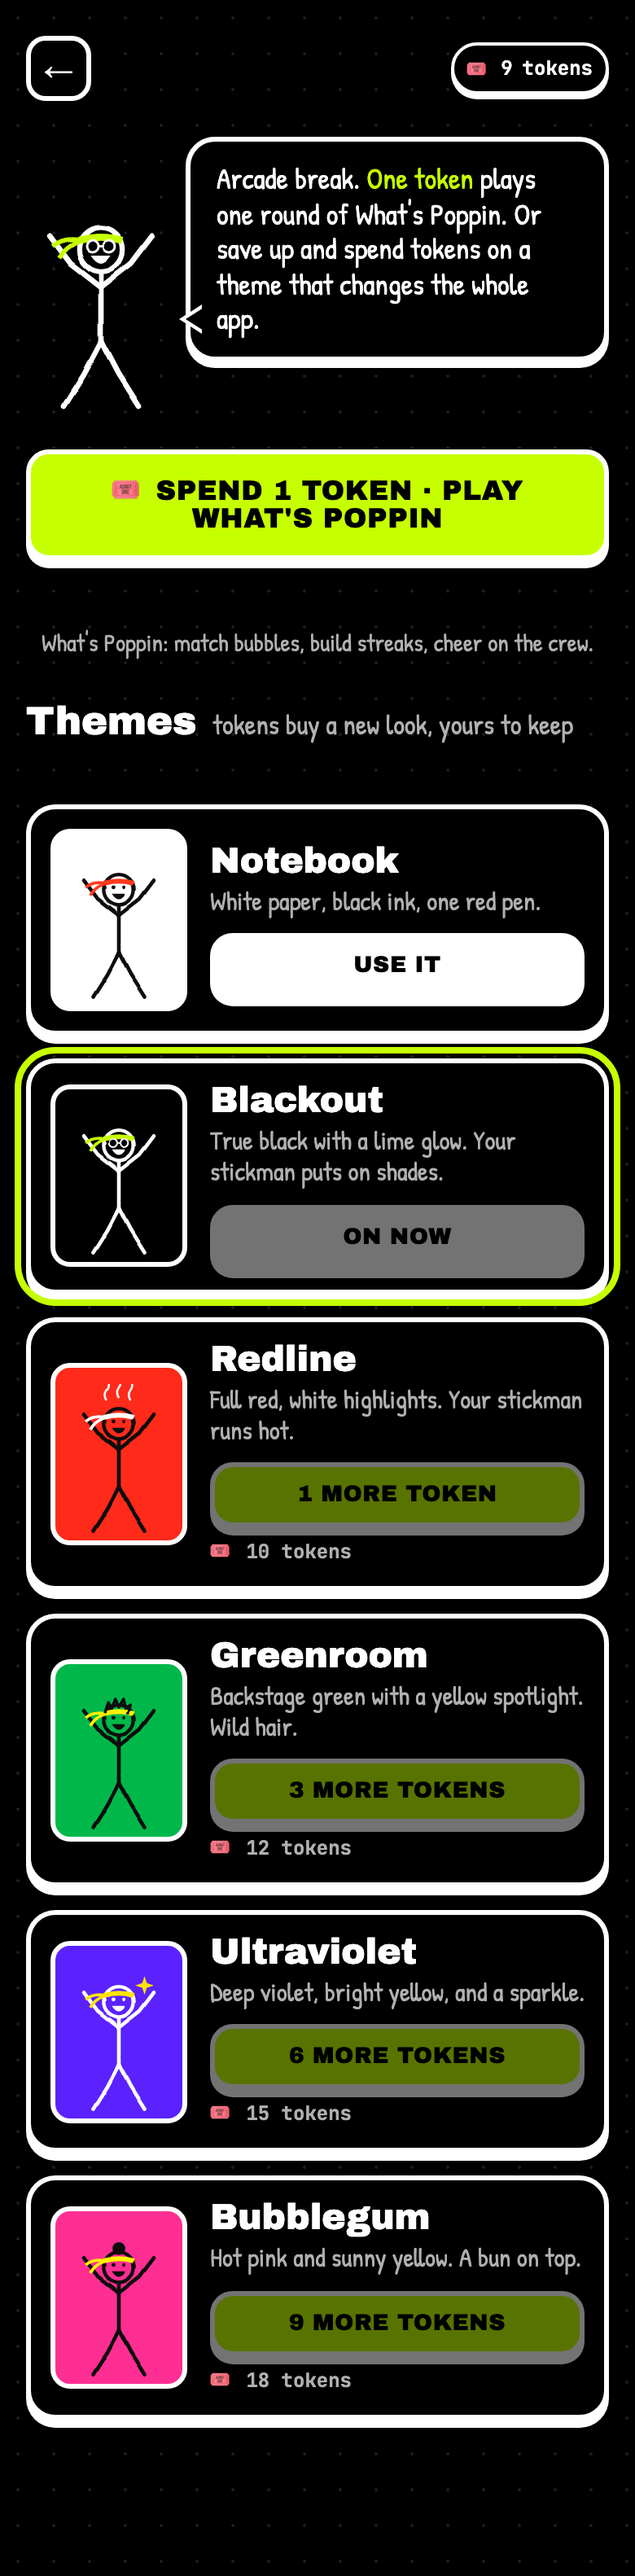
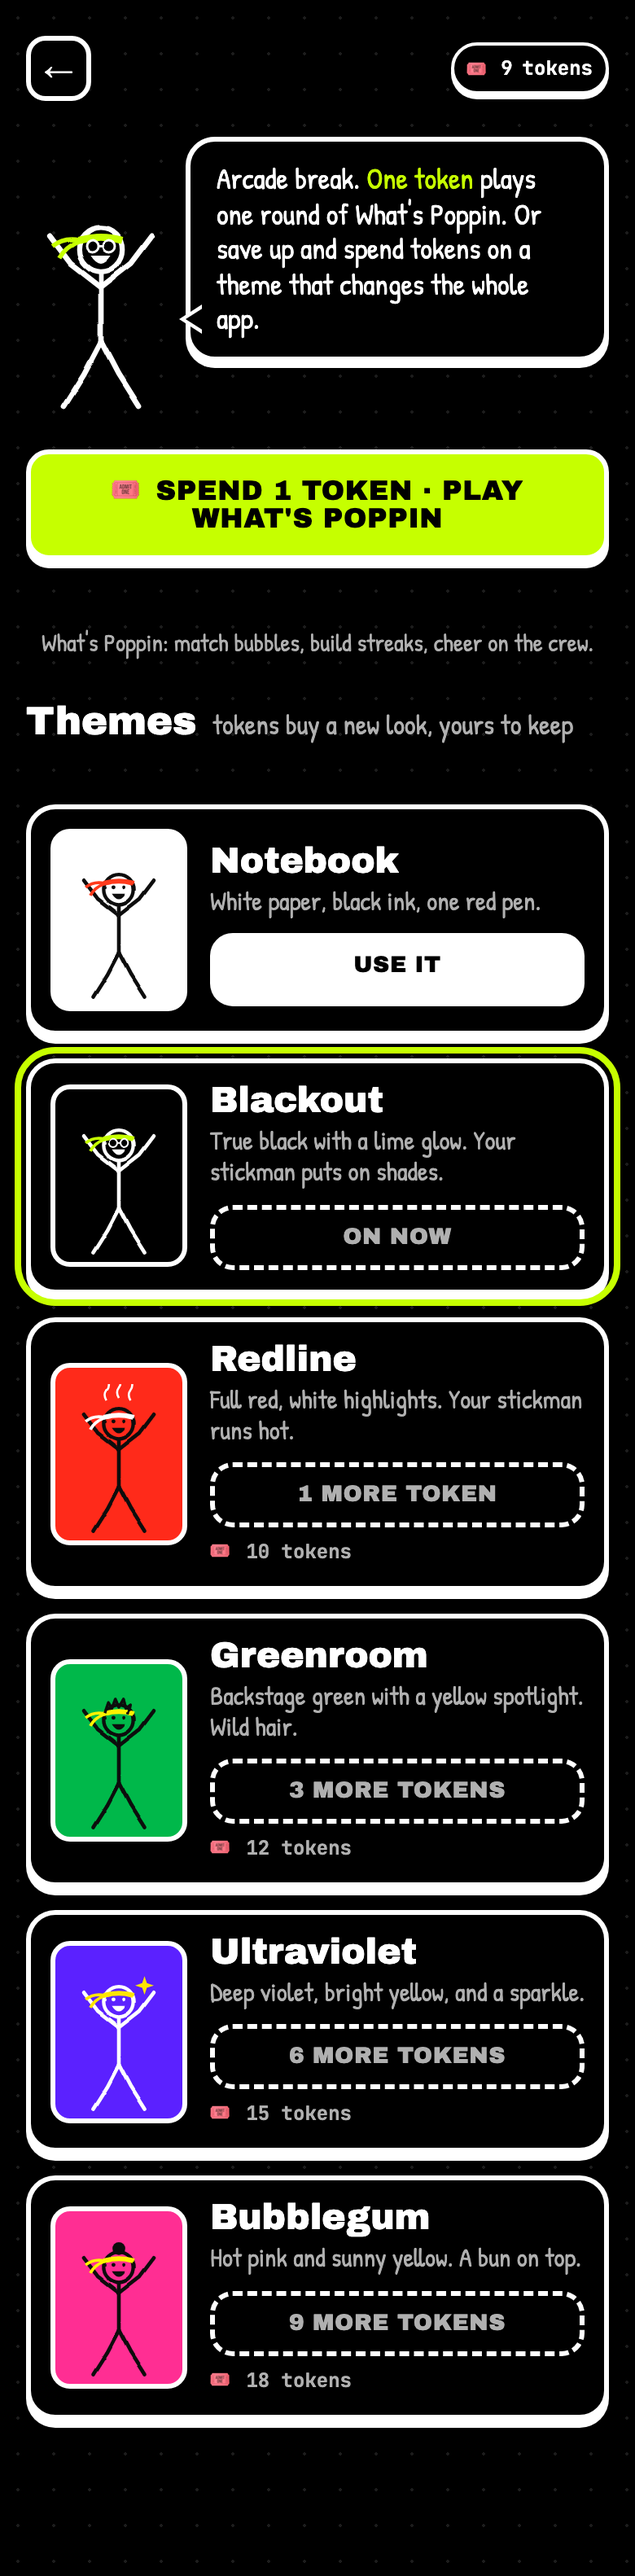
fix: disabled buttons were a muddy olive on dark themes; now a clear dashed outline
Claude-Session: https://claude.ai/code/session_01MajkfyGkSEUhYvMV5oLVnz

diff --git a/app/src/app/globals.css b/app/src/app/globals.css
@@ -89,7 +89,7 @@ html[data-theme="bubblegum"] { --paper: #ff2e93; --ink: #0a0a0a; --accent: #fff2
 .btn.ink { background: var(--ink); }
 .btn.ghost { background: var(--paper); color: var(--ink); }
 .btn.block { display: flex; width: 100%; }
-.btn[disabled] { opacity: 0.45; cursor: not-allowed; transform: none; box-shadow: 0 5px 0 var(--ink); }
+.btn[disabled] { opacity: 1; background: transparent; color: var(--mid); border-style: dashed; cursor: not-allowed; transform: none; box-shadow: none; }
 
 /* ---------- System window ---------- */
 .sys { position: relative; background: var(--sys-bg); color: var(--sys-text); border: 1.5px solid var(--sys-edge); border-radius: 6px; padding: 14px 16px 16px; margin: 0 0 18px; box-shadow: 0 0 0 1px rgba(61, 224, 255, 0.25), 0 0 22px rgba(61, 224, 255, 0.35), inset 0 0 26px rgba(61, 224, 255, 0.12); font-family: var(--mono); animation: sys-in 0.35s cubic-bezier(.2,.9,.3,1.3); }
